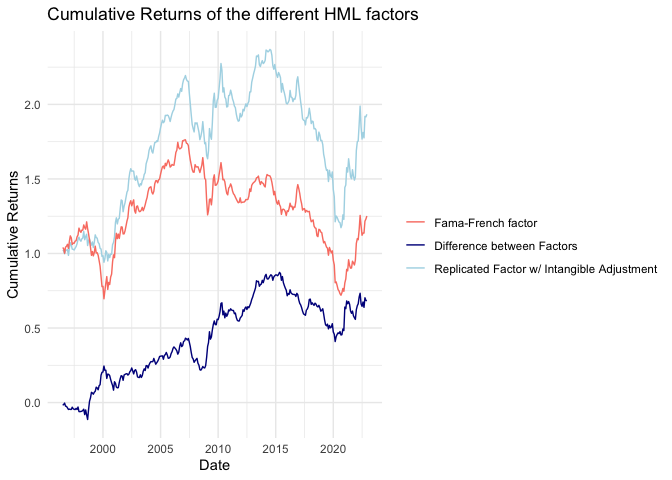
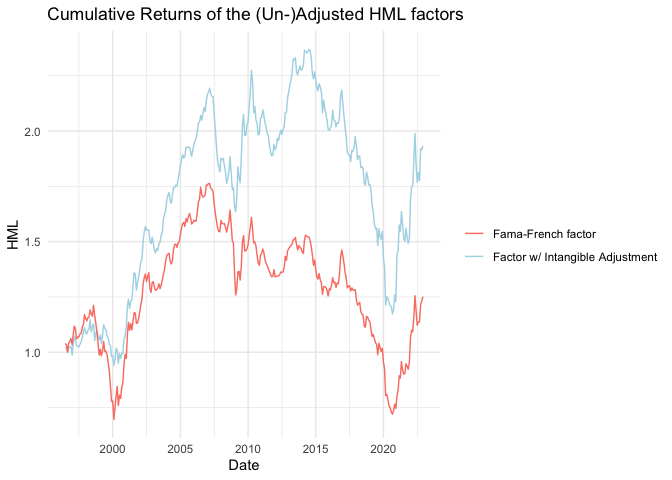
new plots

diff --git a/README.md b/README.md
@@ -23,15 +23,15 @@ check this straight after coming back from the doc!
 
 \#List of test plots:
 
-\[ \] All the recreated fama french factors with the originals.
+\[x\] All the recreated fama french factors with the originals.
 
-\[ \] All the intangible factors with the recreated fff.
+\[x\] All the intangible factors with the recreated fff.
 
-\[ \] The two different rmw\_int factors
+\[x\] The two different rmw\_int factors
 
-(\[ \] The different HML Factors)
+(\[x\] The different HML Factors)
 
-\[ \] The Traded Liquidity Factor
+\[x\] The Traded Liquidity Factor
 
 \#List of all the test tables:
 
@@ -63,7 +63,7 @@ check this straight after coming back from the doc!
 
 \##Plots
 
-<img src="README_files/figure-markdown_strict/hml_reproduction-1.png" height="50%" />
+![](README_files/figure-markdown_strict/hml_reproduction-1.png)![](README_files/figure-markdown_strict/hml_reproduction-2.png)![](README_files/figure-markdown_strict/hml_reproduction-3.png)
 
 ## Tables
 
